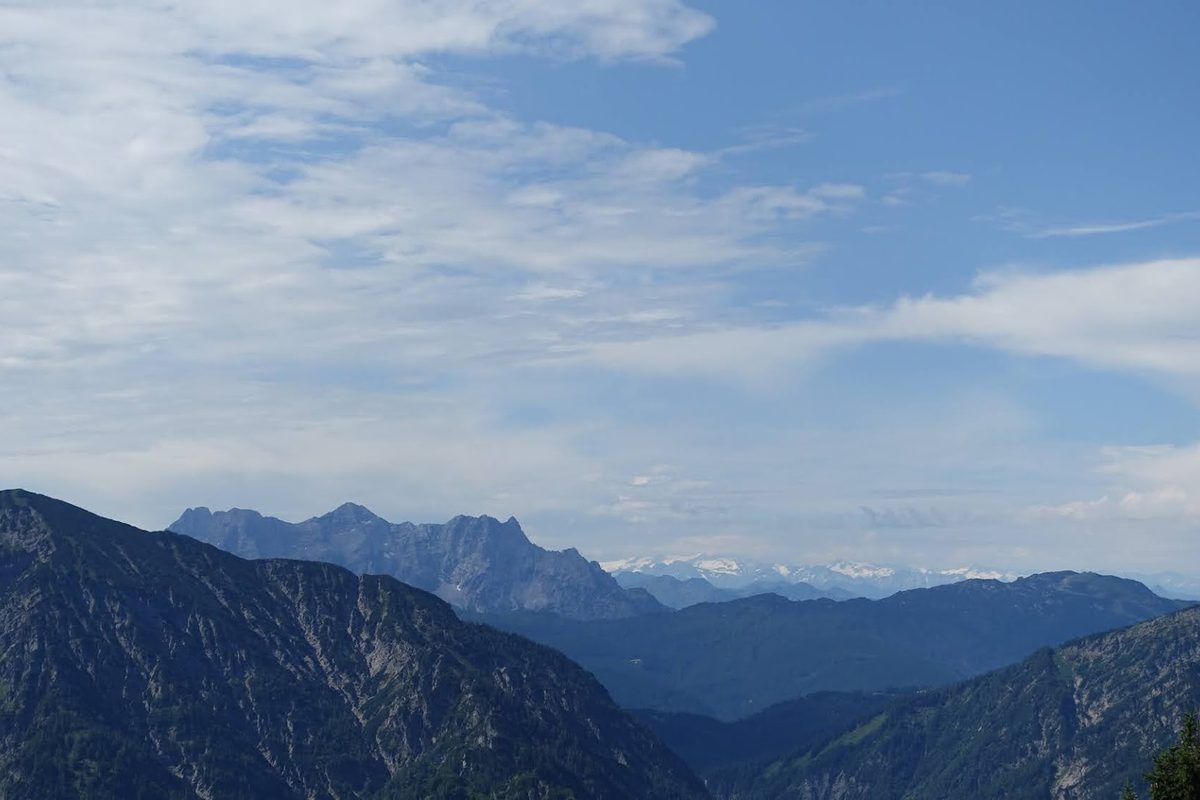
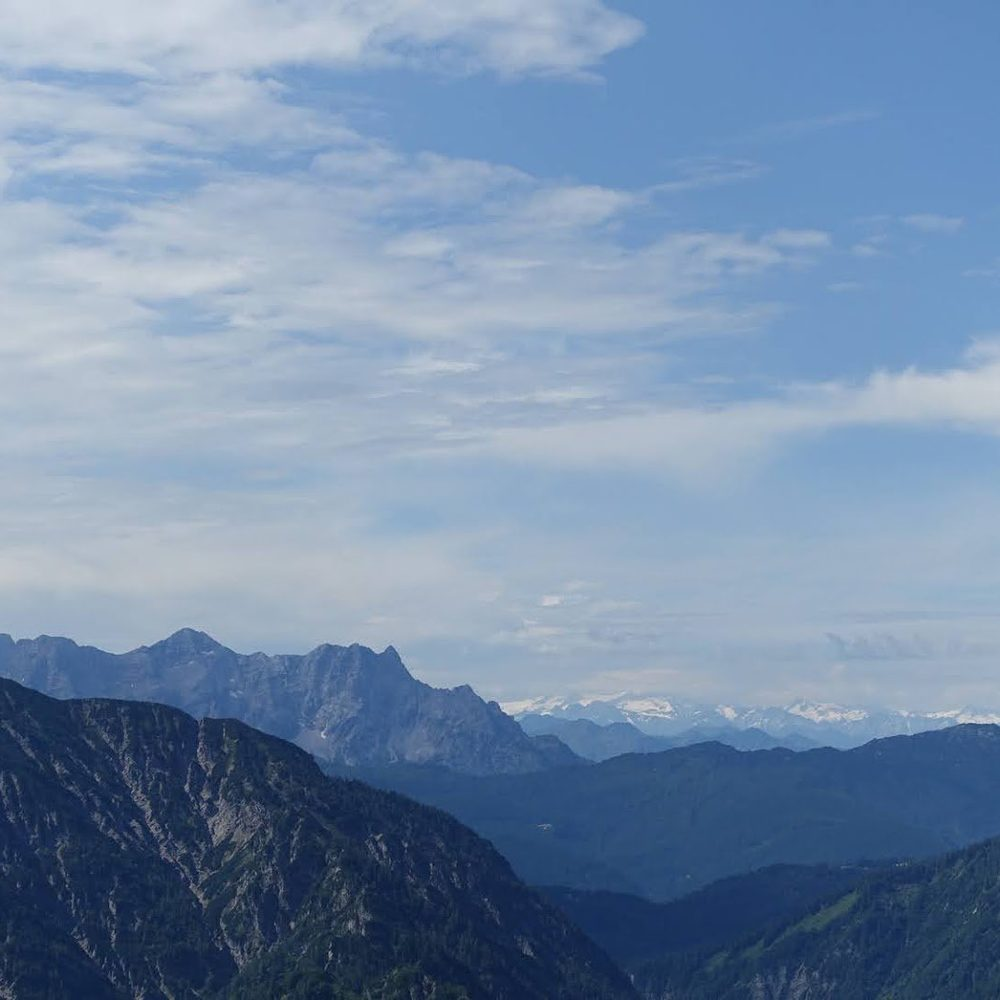
갤러리 썸네일 1:1로 변경
Claude-Session: https://claude.ai/code/session_01JEkAbEVDRBmzq22ZbdnYh1

diff --git a/index.html b/index.html
@@ -98,7 +98,7 @@
   .gallery { display: grid; grid-template-columns: repeat(3, 1fr); gap: 10px; }
   .gallery figure { margin: 0; min-width: 0; }
   .gallery a { border: 0; display: block; }
-  .gallery img { display: block; width: 100%; max-width: 100%; aspect-ratio: 3 / 2; object-fit: cover; background: var(--line); }
+  .gallery img { display: block; width: 100%; max-width: 100%; aspect-ratio: 1 / 1; object-fit: cover; background: var(--line); }
   .gallery figcaption { font-size: 12px; color: var(--muted); margin-top: 8px; letter-spacing: .02em; }
   @media (max-width: 440px) { .gallery { grid-template-columns: repeat(2, 1fr); } }
 

diff --git a/scripts/sync_photos.py b/scripts/sync_photos.py
@@ -2,7 +2,7 @@
 """Merge new source images into photos/ and photos/photos.json.
 
 Usage: python3 scripts/sync_photos.py <source_dir> [--keep "stem1,stem2,..."]
-- Every image in <source_dir> becomes photos/<stem>-full.jpg (max 2000px) and photos/<stem>-thumb.jpg (1200x800, 3:2 crop)
+- Every image in <source_dir> becomes photos/<stem>-full.jpg (max 2000px) and photos/<stem>-thumb.jpg (1000x1000, 1:1 crop)
   and is added to photos.json. Existing entries are kept; an entry is replaced if its stem is in <source_dir>.
 - With --keep, entries whose stem is NOT in the keep list (and not in <source_dir>) are removed along with their jpgs.
 - Caption: "2026-09 남양성모성지" -> "남양성모성지"; a stem with no leading date is used whole.
@@ -29,8 +29,8 @@ for f in sorted(src.iterdir()):
     stem = f.stem
     im = ImageOps.exif_transpose(Image.open(f)).convert('RGB')
     full = im.copy(); full.thumbnail((2000, 2000)); full.save(out / f'{stem}-full.jpg', quality=85, optimize=True)
-    ImageOps.fit(im, (1200, 800), Image.LANCZOS).save(out / f'{stem}-thumb.jpg', quality=82, optimize=True)
-    entries[stem] = {'full': f'{stem}-full.jpg', 'thumb': f'{stem}-thumb.jpg', 'caption': caption(stem), 'w': 1200, 'h': 800}
+    ImageOps.fit(im, (1000, 1000), Image.LANCZOS).save(out / f'{stem}-thumb.jpg', quality=82, optimize=True)
+    entries[stem] = {'full': f'{stem}-full.jpg', 'thumb': f'{stem}-thumb.jpg', 'caption': caption(stem), 'w': 1000, 'h': 1000}
     new += 1
 
 removed = 0
